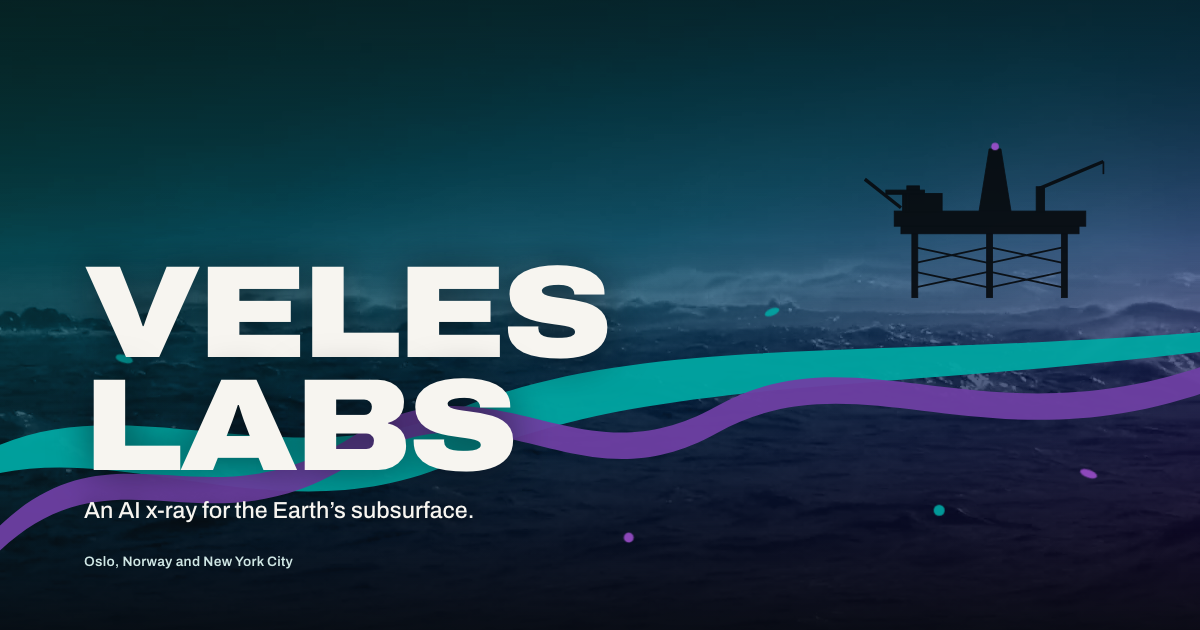
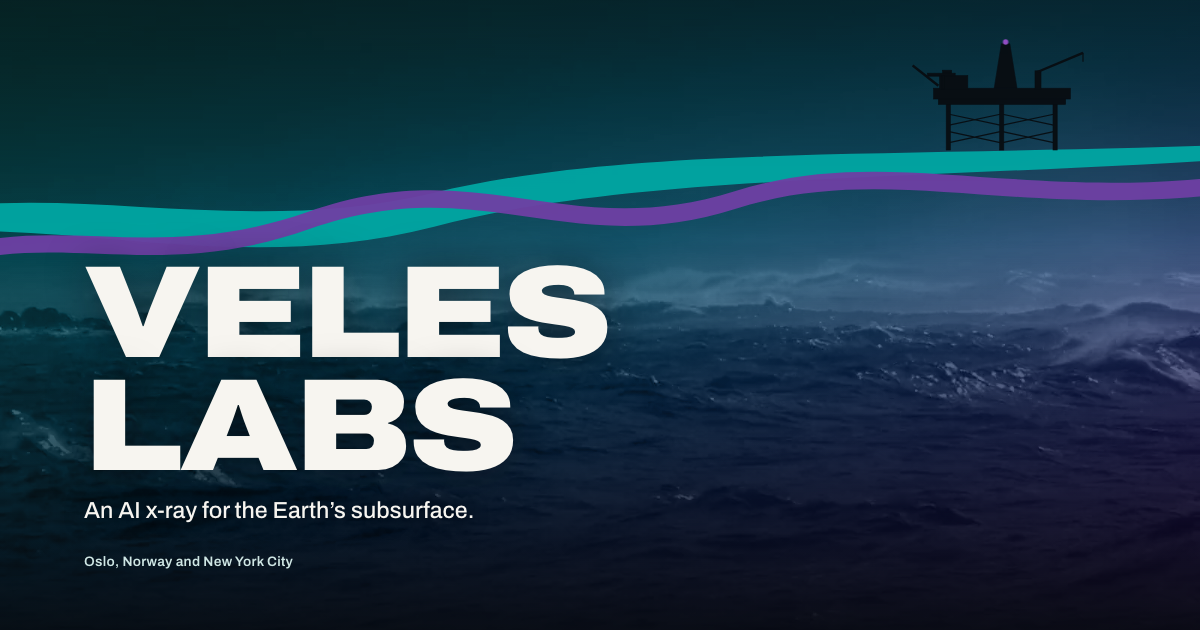
Make the brushstroke the waterline at every width
The mobile hero already read this way: the rig stands on the teal
rather than on the video horizon, with the wordmark below it. Bring
that composition to every width.

- brush is anchored by percentage of the hero and flattened with
  preserveAspectRatio so a full-width band stays slim on wide screens
- rig is sized by viewport height as well as width, otherwise its
  derrick clips out of the top of a short hero

diff --git a/index.html b/index.html
@@ -68,8 +68,8 @@ body{
 
 /* the rig, sitting on the horizon */
 .rig{
-  position:absolute;z-index:2;right:7vw;top:48.5%;
-  width:clamp(140px,21vw,300px);height:auto;
+  position:absolute;z-index:2;right:9vw;top:24.7%;
+  width:min(15vw,32svh,240px);height:auto;
   transform:translateY(-100%);
   opacity:.94;
 }
@@ -78,9 +78,9 @@ body{
 
 /* the jazz stroke: the one loud moment on this page */
 .brush{
-  position:absolute;z-index:1;left:50%;bottom:clamp(74px,12vh,150px);
-  width:min(1320px,128vw);
-  transform:translateX(-50%) rotate(-2.2deg);
+  position:absolute;z-index:1;left:50%;top:18%;
+  width:128vw;height:28%;
+  transform:translateX(-50%) rotate(-1.2deg);
   pointer-events:none;
 }
 .hero-head{position:relative;z-index:2;padding:0 24px clamp(48px,9vh,96px);max-width:var(--wrap);margin:0 auto;width:100%}
@@ -250,9 +250,8 @@ p{margin:0 0 1.15rem;color:#2A2E36}
     -webkit-mask-image:linear-gradient(to right,#000 88%,transparent 100%);
     mask-image:linear-gradient(to right,#000 88%,transparent 100%);
   }
-  .rig{right:5vw;top:46%;width:clamp(120px,27vw,200px)}
-  /* keep the stroke clear of the wordmark on narrow screens */
-  .brush{width:150vw;bottom:300px}
+  .rig{right:5vw;top:44%;width:clamp(120px,27vw,200px)}
+  .brush{width:150vw;top:36%;height:20%}
   .facts div{border-right:0;border-bottom:1px solid #D6D1C6}
   .facts div:last-child{border-bottom:0}
   .foot-in{grid-template-columns:1fr;gap:34px;align-items:start}
@@ -308,7 +307,7 @@ p{margin:0 0 1.15rem;color:#2A2E36}
     <circle class="beacon" cx="156" cy="10" r="4.5" fill="#9B4FCB"/>
   </svg>
 
-  <svg class="brush" viewBox="0 0 1200 240" aria-hidden="true" xmlns="http://www.w3.org/2000/svg">
+  <svg class="brush" viewBox="0 0 1200 240" preserveAspectRatio="none" aria-hidden="true" xmlns="http://www.w3.org/2000/svg">
     <!-- teal swoosh: thick through the middle, tapering out at both ends -->
     <path d="M14,140 C150,52 300,168 470,104 C640,40 850,74 1186,58
              L1186,74 C850,104 640,80 470,150 C300,220 150,104 14,156 Z"
